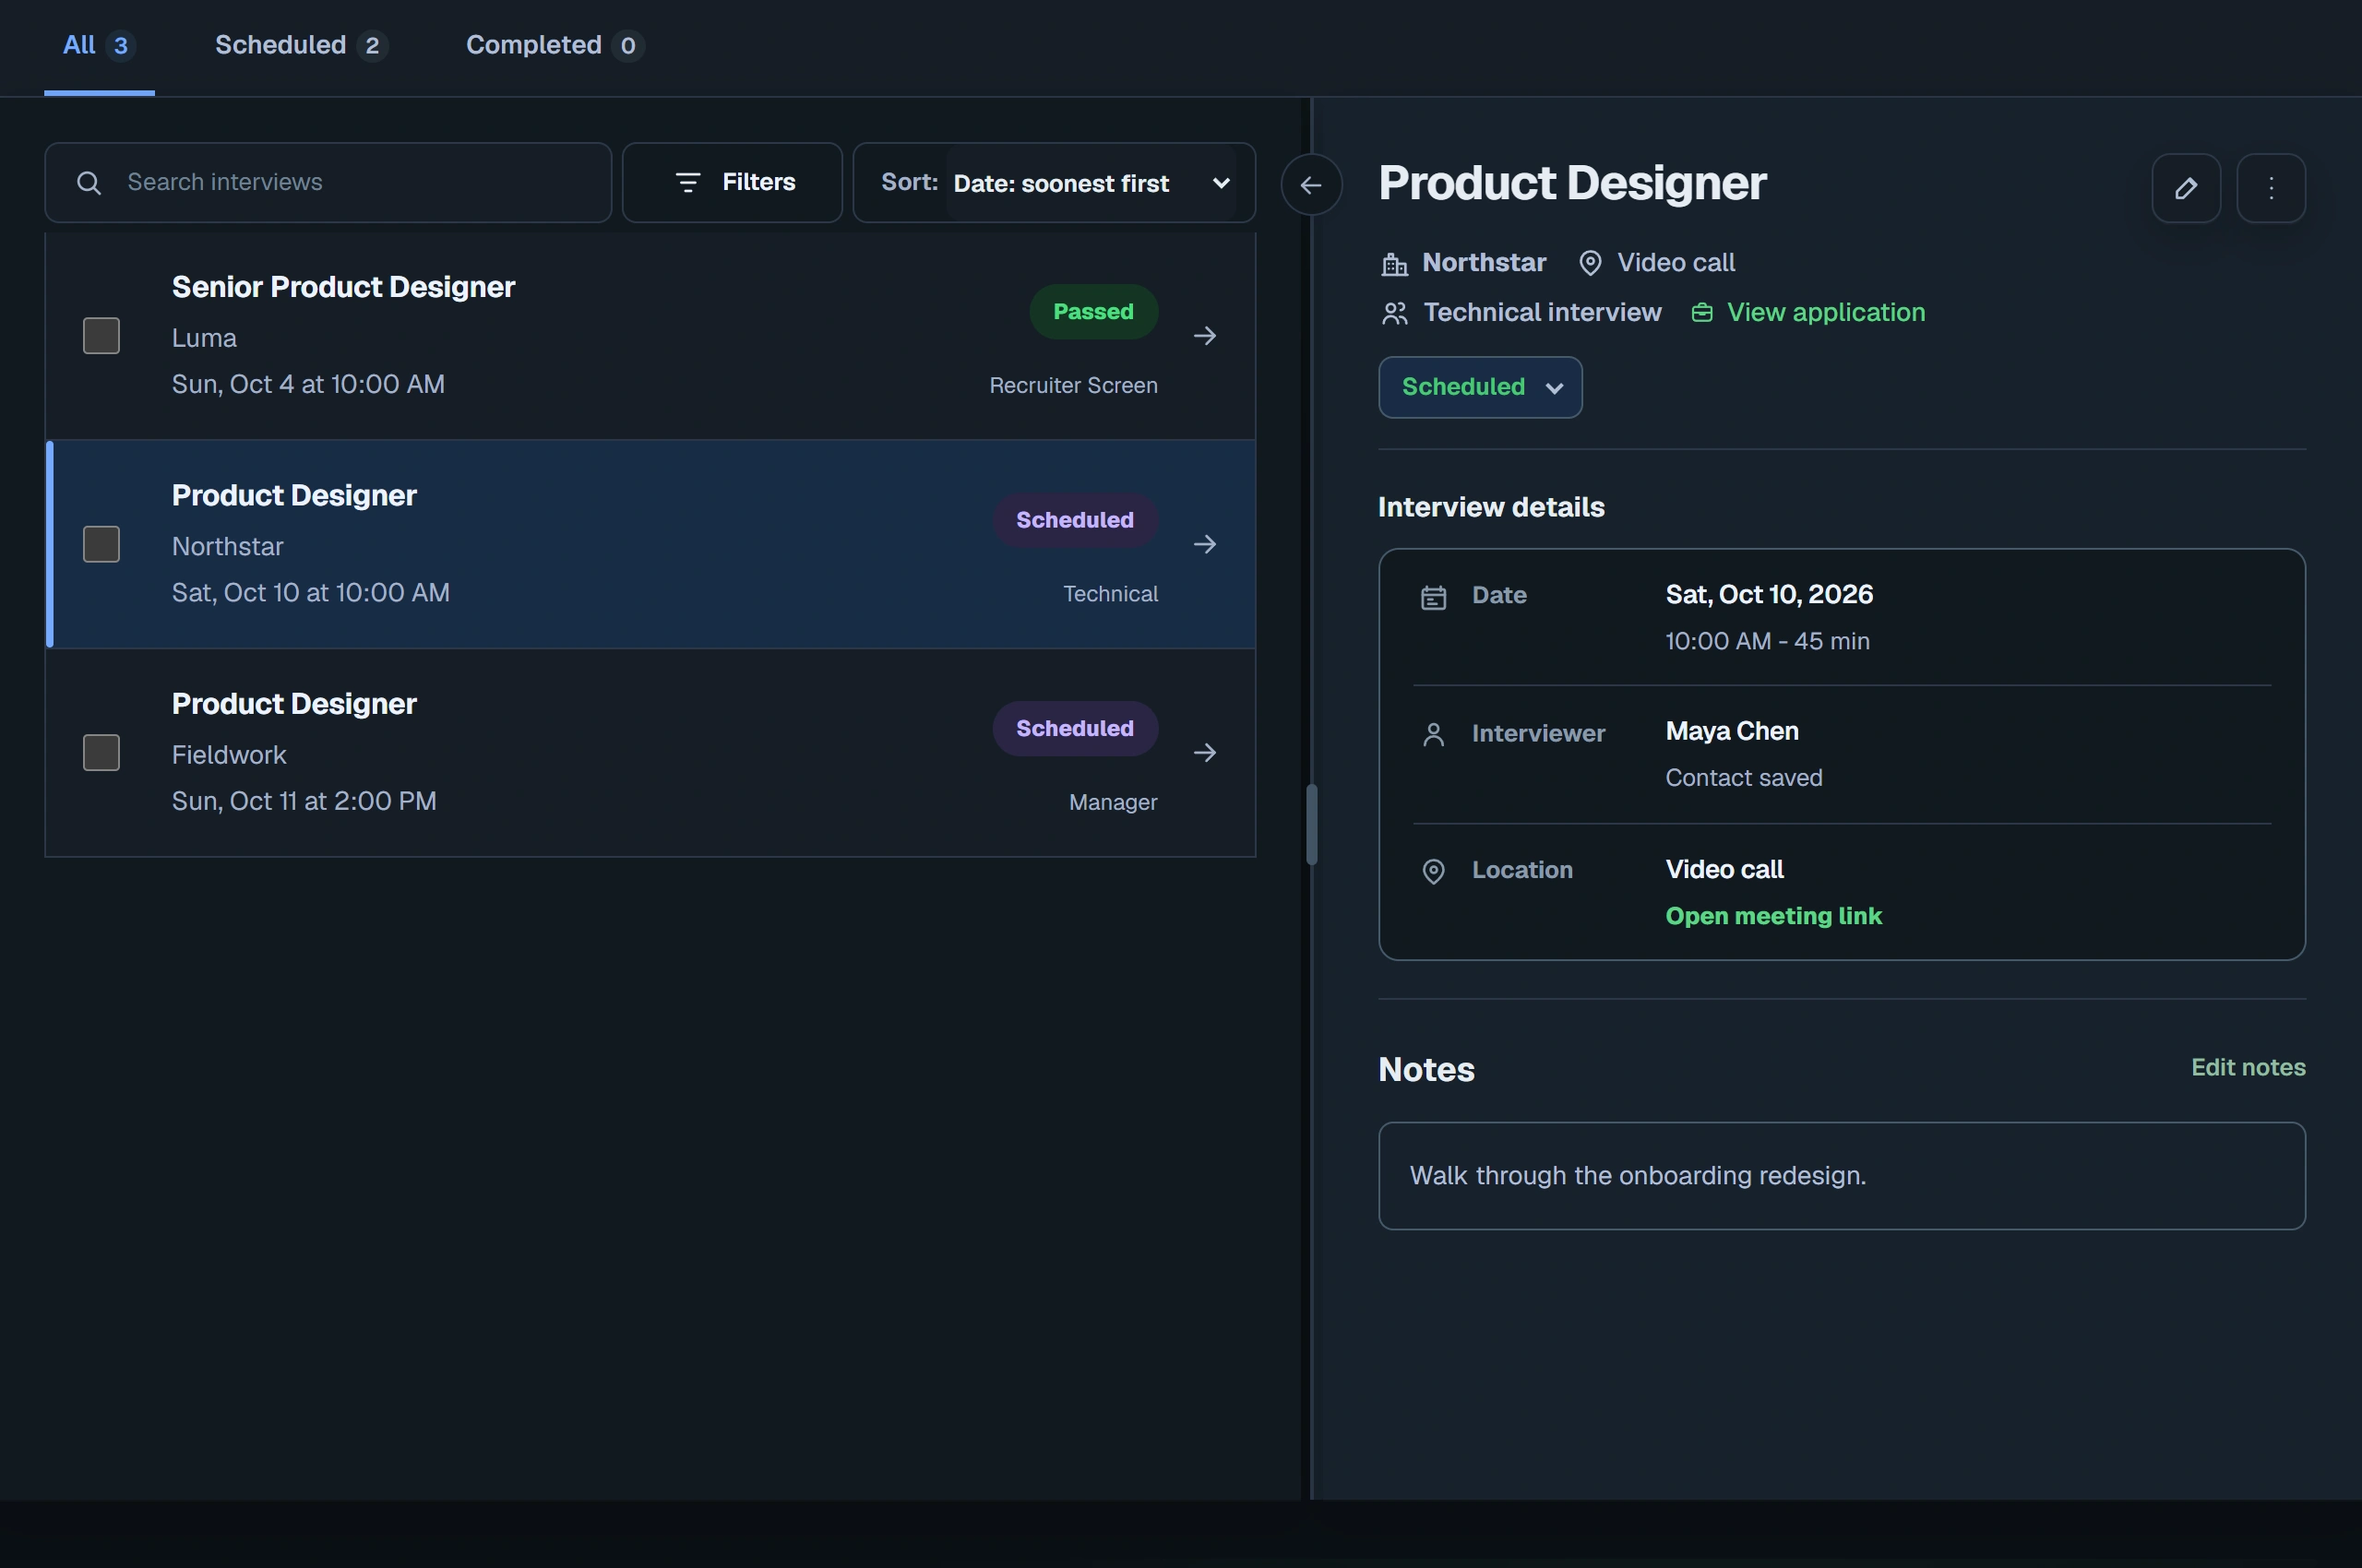
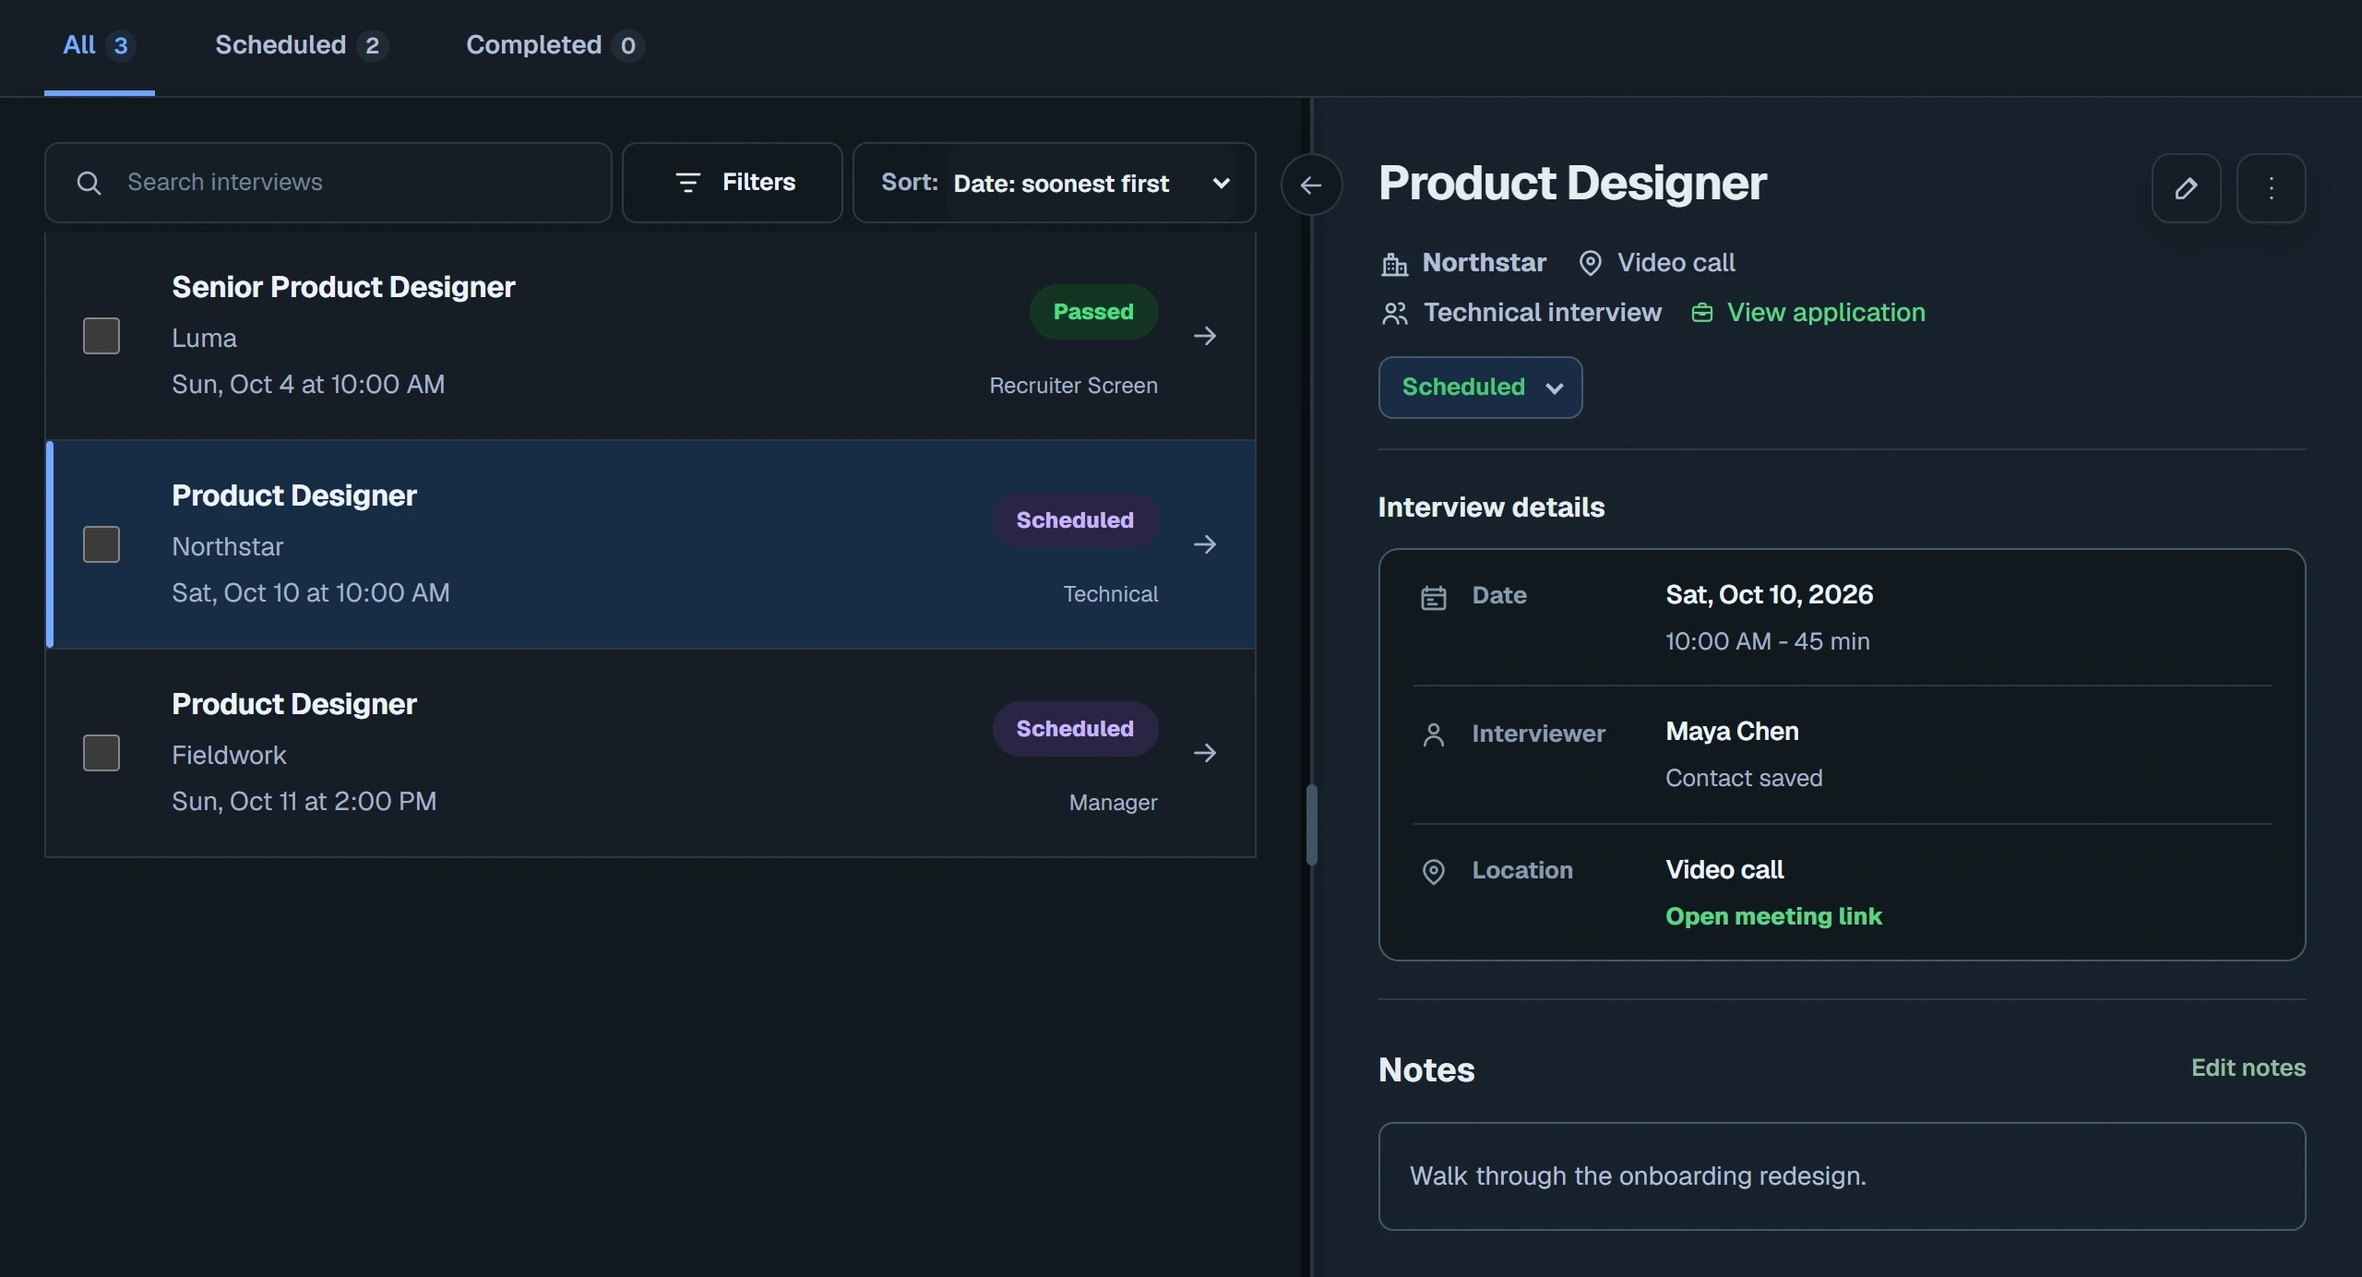
adjustments to colors and wording

diff --git a/frontend/app/components/LandingProductStory.tsx b/frontend/app/components/LandingProductStory.tsx
@@ -54,7 +54,7 @@ export function LandingProductStory({ onGetStarted }: { onGetStarted: () => void
                     <article className="story-chapter story-organize story-workspace" id="pipeline" aria-labelledby="story-organize-title">
                         <div className="story-feature-copy" data-reveal>
                             <span className="story-eyebrow">Organize</span>
-                            <h3 id="story-organize-title">Pick up exactly where you left off.</h3>
+                            <h3 id="story-organize-title">Every application, organized.</h3>
                             <p id="resumes">Find the status, resume you sent, notes, and next task together in each application.</p>
                         </div>
                         <div className="story-visual" data-reveal>
@@ -77,7 +77,7 @@ export function LandingProductStory({ onGetStarted }: { onGetStarted: () => void
                         <div className="story-feature-copy" data-reveal>
                             <span className="story-eyebrow">Learn</span>
                             <h3 id="story-learn-title">See what gets a response.</h3>
-                            <p>Compare responses by job source or resume, with application counts alongside each rate.</p>
+                            <p>Compare application response rates by job source or resume.</p>
                         </div>
                         <div className="story-visual story-insights-visual" data-reveal>
                             <LandingScreenshot name="analytics" alt="Example comparison of 72 submitted applications: Indeed has eight responses from 30 submissions, LinkedIn five from 24, and company websites three from 18" caption="72 submitted applications" />
@@ -96,7 +96,6 @@ export function LandingProductStory({ onGetStarted }: { onGetStarted: () => void
 
             <footer className="story-footer story-container">
                 <a className="landing-brand" href="#top"><Image src="/JobHazelIcon.png" alt="" width={32} height={32} /><span>JobHazel</span></a>
-                <nav aria-label="Footer navigation"><a href="#job-import">Job import</a><a href="#resumes">Resumes</a><a href="#insights">Insights</a><a href="#top">Back to top ↑</a></nav>
                 <span className="story-copyright">© {new Date().getFullYear()} JobHazel</span>
             </footer>
         </div>

diff --git a/frontend/app/styles/05-landing.css b/frontend/app/styles/05-landing.css
@@ -14,7 +14,7 @@
     --landing-border: #dce8d9;
     --landing-border-strong: #a4c4aa;
     --landing-copy: #2f4234;
-    --landing-copy-background: #fbfdf98a;
+    --landing-copy-background: #fbfdf9de;
     --landing-muted: #5c7162;
     --landing-faint: #708574;
     --landing-button-ink: #ffffff;
@@ -40,7 +40,7 @@ html[data-theme="dark"] .landing-page {
     --landing-border: #2b493a;
     --landing-border-strong: #3d6b4e;
     --landing-copy: #b3c8b9;
-    --landing-copy-background: #fafafa00;
+    --landing-copy-background: #1a1919b6;
     --landing-muted: #8ea395;
     --landing-faint: #6f8677;
     --landing-button-ink: #06130b;
@@ -48,6 +48,12 @@ html[data-theme="dark"] .landing-page {
     --landing-danger-surface: #421d1c;
     --landing-glow-core: #17462a;
     --landing-glow-edge: #0d2c1a;
+}
+
+/* Natural tree: tapered SVG limbs reveal through animated centerline masks. */
+.hero-growth-natural {
+    --tree-wood-opacity: .4;
+    --tree-foliage-opacity: .5;
 }
 
 .landing-page button,
@@ -386,7 +392,7 @@ html[data-theme="dark"] .landing-page {
 .hero-growth-vines {
     stroke: #37864a;
     stroke-width: 3;
-    opacity: .1;
+    opacity: .2;
 }
 
 .hero-growth-trunk {
@@ -1472,13 +1478,6 @@ body.auth-modal-open {
         opacity: 1;
         transform: none;
     }
-}
-
-
-/* Natural tree: tapered SVG limbs reveal through animated centerline masks. */
-.hero-growth-natural {
-    --tree-wood-opacity: .12;
-    --tree-foliage-opacity: .12;
 }
 
 .hero-growth-natural .hero-growth-vines {

diff --git a/frontend/app/components/LandingScreenshot.tsx b/frontend/app/components/LandingScreenshot.tsx
@@ -34,12 +34,6 @@ export function LandingScreenshot({ name, alt, caption, fullPage = false }: Land
                     );
                 })}
             </div>
-            <figcaption>
-                <span>{caption}{fullPage && " · Example data"}</span>
-                {fullPage ? (["Light", "Dark"] as const).map(theme => (
-                    <a key={theme} className={`story-screenshot-${theme.toLowerCase()} story-preview-link`} href={screenshot[`desktop${theme}`].src} target="_blank" rel="noreferrer" aria-label={`View full-size ${caption.toLowerCase()} screenshot`}>View full size ↗</a>
-                )) : <span className="story-example-label">Example data</span>}
-            </figcaption>
         </figure>
     );
 }

diff --git a/frontend/app/components/LandingImportDemo.tsx b/frontend/app/components/LandingImportDemo.tsx
@@ -46,7 +46,6 @@ export function LandingImportDemo() {
                     </dl>
                 </section>
             </div>
-            <figcaption><span>Automatic extraction</span><span className="story-example-label">Illustrated example</span></figcaption>
         </figure>
     );
 }

diff --git a/frontend/app/styles/06-landing-story.css b/frontend/app/styles/06-landing-story.css
@@ -766,7 +766,7 @@ html[data-theme="dark"] .story-import-demo [data-field="description"] {
 }
 
 .story-copyright {
-    width: 100%;
+    margin-left: auto;
     color: var(--landing-muted);
     font-size: 12px;
 }
